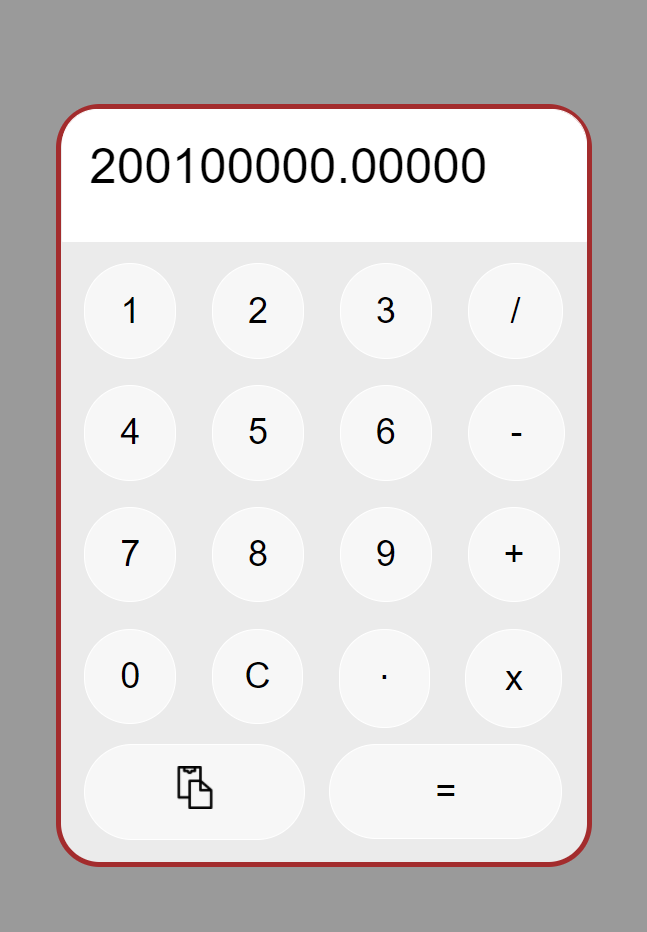
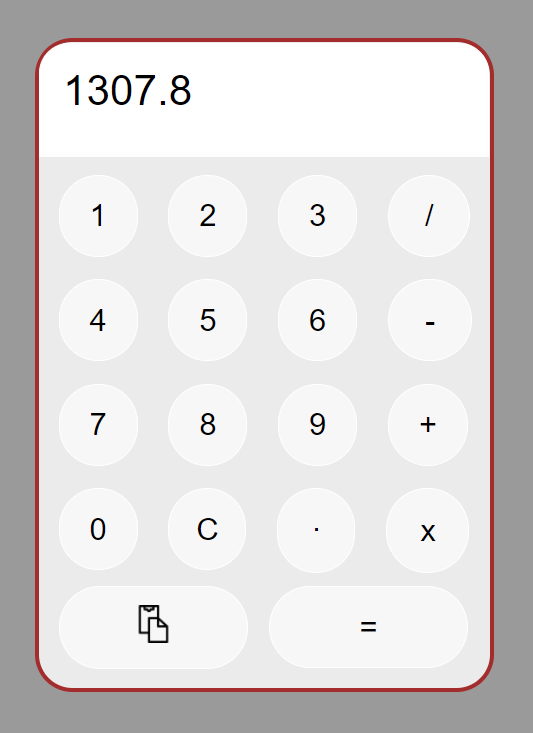
Add files via upload

diff --git a/Калькулятор/calc.js b/Калькулятор/calc.js
@@ -8,7 +8,7 @@ const calc = Vue.createApp({
   },
   methods: {
     plus(but) {
-      this.input ? this.input = this.input = `${this.input}${but.target.value}` : this.input = `${but.target.value}`
+      this.input ? this.input = `${this.input}${but.target.value}` : this.input = `${but.target.value}`
     },
     del() {
       if (this.input.slice(this.input.length - 3) == " - " || this.input.slice(this.input.length - 3) == " * " || this.input.slice(this.input.length - 3) == " / " || this.input.slice(this.input.length - 3) == " + ") {
@@ -41,7 +41,7 @@ const calc = Vue.createApp({
         return (num ^ 0) === num;
       }
       if (!isInteger(timeStr)) {
-        this.input = timeStr.toFixed(5).toString();
+        this.input = timeStr.toFixed(3).toString();
       } else {
         this.input = timeStr.toString();
       }
@@ -49,7 +49,7 @@ const calc = Vue.createApp({
       if (this.inputs.length >= 5) {
         this.inputs.length = 5;
       }
-      localStorage.setItem("calc", JSON.stringify(this.inputs))
+      localStorage.setItem("calc", JSON.stringify(this.inputs));
     },
     reverse() {
       this.seen = !this.seen;
@@ -62,7 +62,11 @@ const calc = Vue.createApp({
       localStorage.setItem("calc", JSON.stringify(this.inputs))
     },
     paste(index) {
-      this.input = `${this.inputs[index]}`
+      if (this.input.slice(this.input.length - 3) == " - " || this.input.slice(this.input.length - 3) == " * " || this.input.slice(this.input.length - 3) == " / " || this.input.slice(this.input.length - 3) == " + ") {
+        this.input = `${this.input}${this.inputs[index]}`
+      } else {
+        this.input = `${this.inputs[index]}`
+      }
     }
   },
   mounted() {

diff --git a/Калькулятор/calc.css b/Калькулятор/calc.css
@@ -34,6 +34,7 @@ textarea {
   border-radius: 1000px;
   background-color: hsla(360, 100%, 100%, 0.6);
   transition: all 0.3s;
+  animation: buttons 0.7s ease;
 }
 .buttons button:nth-child(1n+1) {
   margin-left: 13px;
@@ -59,14 +60,16 @@ textarea {
   top: 355px;
   left: 0px;
   padding: 12px 50px;
+  animation: extension 0.7s ease;
 }
 .pustota {
   width: auto;
   position: absolute;
-  top: 355px;
+  top: 345px;
   left: 8px;
-  padding: 12px 121px;
-  margin: 15px 10px 10px 8px;
+  padding: 12px 123px;
+  margin: 17px 15px 10px 5px;
+  animation: expansion 0.7s ease;
 }
 .ravno {
   position: absolute;
@@ -86,13 +89,14 @@ img {
 
 .bufer {
   width: auto;
-  height: 260px;
+  height: 250px;
   margin: 10px;
   padding: 10px 10px 0;
   background-color: white;
   border-radius: 30px;
   overflow: auto;
   transition: all 0.3s;
+  animation: slide 0.6s ease;
 }
 li {
   position: relative;
@@ -123,4 +127,49 @@ li {
 
 [v-cloak] {
   display: none;
+}
+
+@keyframes expansion {
+  from {
+    top: 345px;
+    left: 8px;
+    padding: 12px 50px;
+    background-color: hsla(360, 100%, 100%, 1);
+  }
+  to {
+    top: 345px;
+    left: 8px;
+    padding: 12px 123px;
+    margin: 17px 15px 10px 5px;
+    background-color: hsla(360, 100%, 100%, 0.6);
+  }
+}
+@keyframes extension {
+  from {
+    top: 345px;
+    left: 8px;
+    padding: 12px 123px;
+    margin: 17px 15px 10px 5px;
+  }
+  to {
+    top: 355px;
+    left: 0px;
+    padding: 12px 50px;
+  }
+}
+@keyframes buttons {
+  from {
+    opacity: 0.2;
+  }
+  to {
+    opacity: 1;
+  }
+}
+@keyframes slide {
+  from {
+  height: 25px;
+  }
+  to {
+    height: 250px;
+  }
 }
